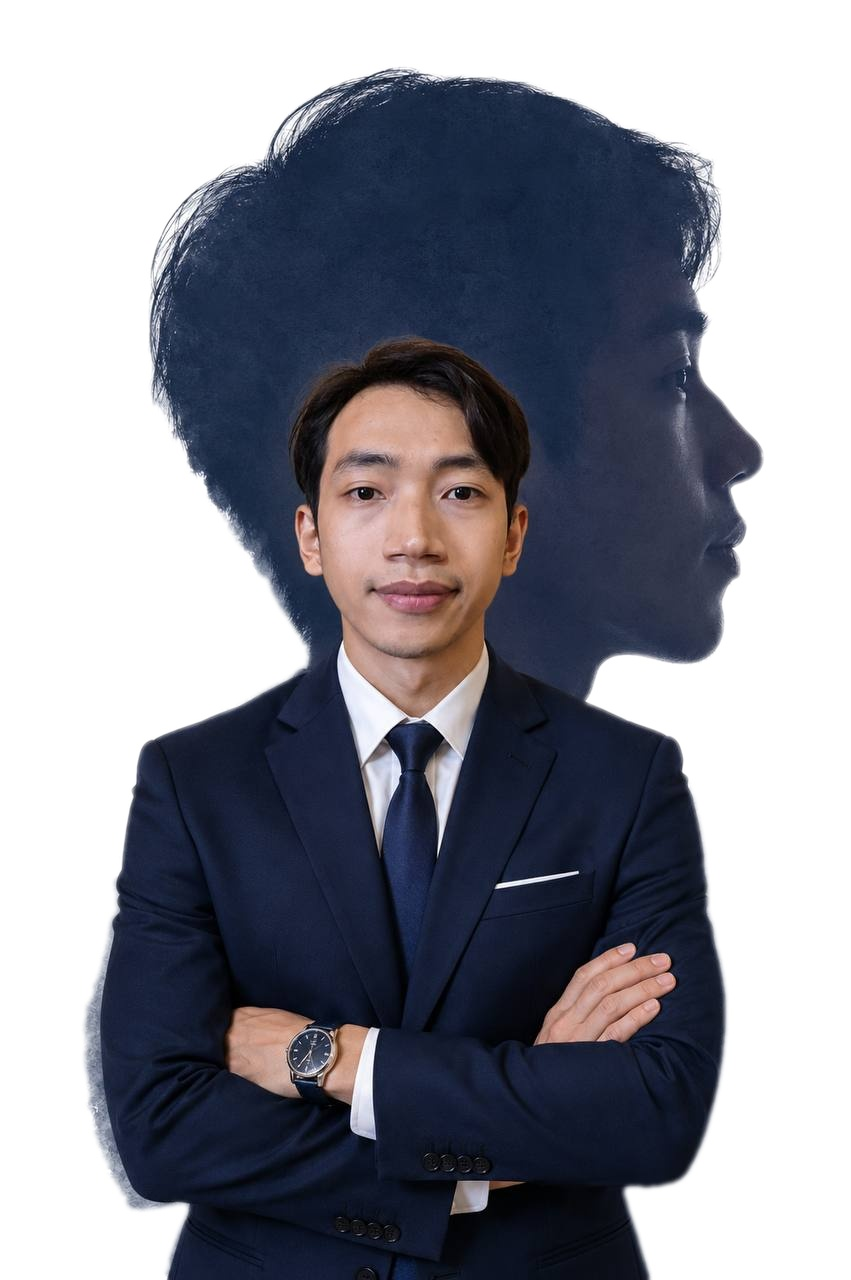
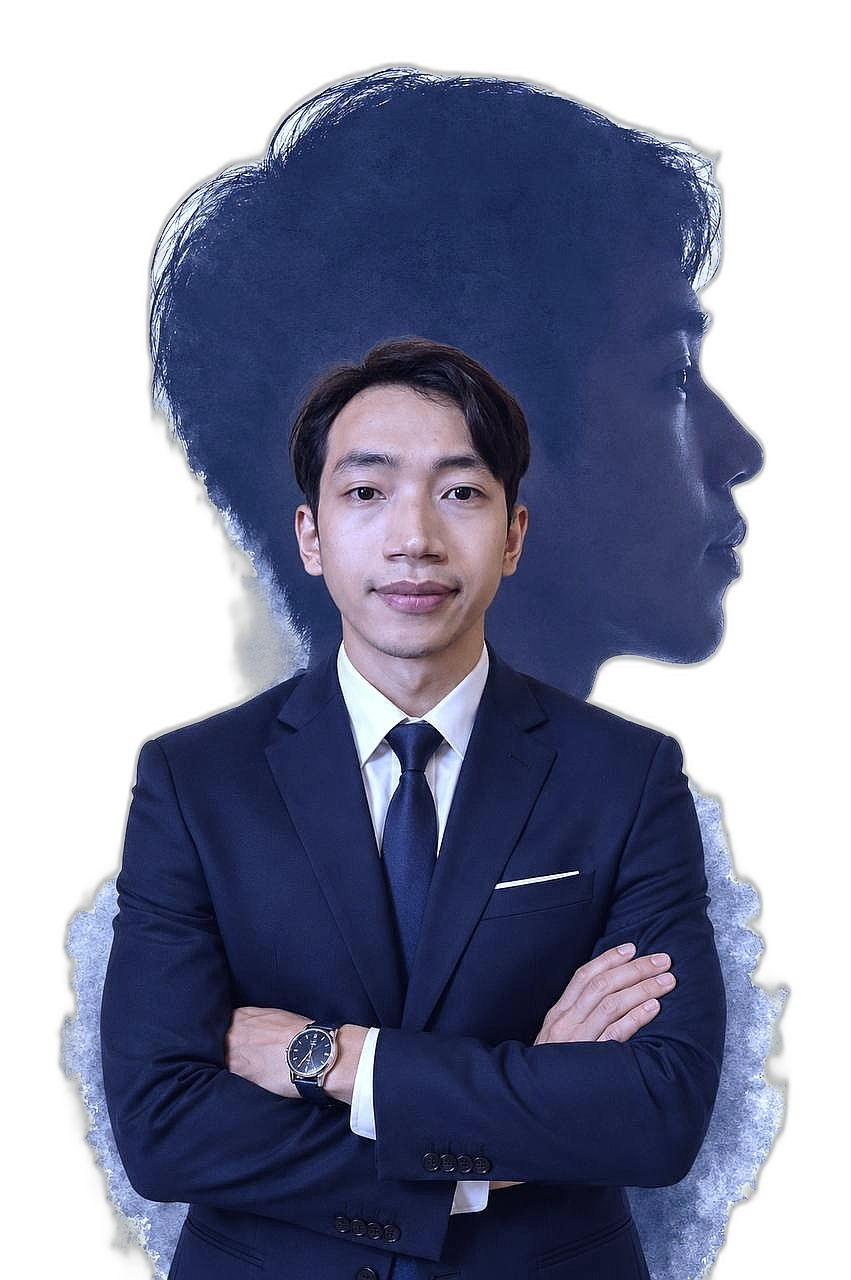
Polish: blue-tinted photo, premium cards, smooth section transitions, better typography

diff --git a/src/app/globals.css b/src/app/globals.css
@@ -42,7 +42,7 @@ body {
   font-family: var(--font-body), 'DM Sans', sans-serif;
   overflow-x: hidden;
   position: relative;
-  line-height: 1.6;
+  line-height: 1.7;
 }
 
 /* ============================================
@@ -56,27 +56,32 @@ body::before {
   height: 100%;
   background-image: url("https://grainy-gradients.vercel.app/noise.svg");
   filter: contrast(150%) brightness(1000%);
-  opacity: 0.015;
+  opacity: 0.02;
   pointer-events: none;
   z-index: 9999;
 }
 
 /* ============================================
-   GLASSMORPHISM CARDS — Clean & Soft
+   GLASSMORPHISM CARDS — Premium Depth
    ============================================ */
 .glass-card {
   background: var(--card-bg);
-  backdrop-filter: blur(16px);
-  -webkit-backdrop-filter: blur(16px);
+  backdrop-filter: blur(20px);
+  -webkit-backdrop-filter: blur(20px);
   border: 1px solid var(--card-border);
-  transition: all 0.35s cubic-bezier(0.4, 0, 0.2, 1);
-  box-shadow: 0 1px 3px rgba(0, 0, 0, 0.04);
+  transition: all 0.4s cubic-bezier(0.4, 0, 0.2, 1);
+  box-shadow: 
+    0 1px 2px rgba(0, 0, 0, 0.04),
+    0 4px 8px rgba(0, 0, 0, 0.02);
 }
 
 .glass-card:hover {
-  border-color: rgba(126, 200, 227, 0.4);
-  box-shadow: 0 8px 32px rgba(126, 200, 227, 0.12);
-  transform: translateY(-2px);
+  border-color: rgba(126, 200, 227, 0.5);
+  box-shadow: 
+    0 4px 16px rgba(126, 200, 227, 0.15),
+    0 12px 40px rgba(126, 200, 227, 0.08),
+    0 0 0 1px rgba(126, 200, 227, 0.1);
+  transform: translateY(-4px);
 }
 
 .glass-card:active {
@@ -87,7 +92,7 @@ body::before {
    GRADIENT TEXT — Soft blue
    ============================================ */
 .gradient-text {
-  background: linear-gradient(135deg, #7EC8E3, #A8C5E2);
+  background: linear-gradient(135deg, #5B9BD5, #7EC8E3, #A8C5E2);
   -webkit-background-clip: text;
   -webkit-text-fill-color: transparent;
   background-clip: text;
@@ -97,7 +102,7 @@ body::before {
    HERO NAME — Clean gradient
    ============================================ */
 .hero-name {
-  background: linear-gradient(135deg, #1E2A3A 0%, #3D5A80 40%, #7EC8E3 70%, #1E2A3A 100%);
+  background: linear-gradient(135deg, #1E2A3A 0%, #3D5A80 30%, #5B9BD5 60%, #7EC8E3 80%, #1E2A3A 100%);
   background-size: 200% 100%;
   -webkit-background-clip: text;
   -webkit-text-fill-color: transparent;
@@ -108,19 +113,20 @@ body::before {
    BUTTON STYLES — Clean & Modern
    ============================================ */
 .btn-primary {
-  background: linear-gradient(135deg, #7EC8E3, #A8C5E2);
+  background: linear-gradient(135deg, #5B9BD5, #7EC8E3);
   color: #1E2A3A;
   font-weight: 600;
   transition: all 0.3s ease;
   position: relative;
   overflow: hidden;
+  box-shadow: 0 2px 8px rgba(126, 200, 227, 0.25);
 }
 
 .btn-primary::before {
   content: '';
   position: absolute;
   inset: 0;
-  background: linear-gradient(135deg, #A8C5E2, #7EC8E3);
+  background: linear-gradient(135deg, #7EC8E3, #A8C5E2);
   opacity: 0;
   transition: opacity 0.3s ease;
 }
@@ -130,7 +136,7 @@ body::before {
 }
 
 .btn-primary:hover {
-  box-shadow: 0 4px 20px rgba(126, 200, 227, 0.35);
+  box-shadow: 0 6px 24px rgba(126, 200, 227, 0.4);
   transform: translateY(-2px);
 }
 
@@ -141,27 +147,33 @@ body::before {
 }
 
 .btn-outline {
-  border: 1px solid rgba(126, 200, 227, 0.35);
+  border: 1px solid rgba(126, 200, 227, 0.4);
   color: var(--foreground);
   transition: all 0.3s ease;
   backdrop-filter: blur(8px);
-  background: rgba(255, 255, 255, 0.5);
+  background: rgba(255, 255, 255, 0.6);
 }
 
 .btn-outline:hover {
-  background: rgba(126, 200, 227, 0.12);
-  border-color: rgba(126, 200, 227, 0.5);
-  box-shadow: 0 4px 16px rgba(126, 200, 227, 0.15);
+  background: rgba(126, 200, 227, 0.15);
+  border-color: rgba(126, 200, 227, 0.6);
+  box-shadow: 0 4px 20px rgba(126, 200, 227, 0.2);
   transform: translateY(-2px);
 }
 
 /* ============================================
-   SECTION DIVIDER
+   SECTION DIVIDER — Smooth gradient
    ============================================ */
 .section-divider {
-  height: 1px;
-  background: linear-gradient(90deg, transparent, var(--card-border), var(--primary), var(--card-border), transparent);
-  opacity: 0.5;
+  height: 2px;
+  background: linear-gradient(
+    90deg, 
+    transparent, 
+    rgba(126, 200, 227, 0.15) 20%,
+    rgba(126, 200, 227, 0.3) 50%,
+    rgba(126, 200, 227, 0.15) 80%,
+    transparent
+  );
 }
 
 /* ============================================
@@ -169,8 +181,8 @@ body::before {
    ============================================ */
 .section-hidden {
   opacity: 0;
-  transform: translateY(30px);
-  transition: opacity 0.7s cubic-bezier(0.4, 0, 0.2, 1), transform 0.7s cubic-bezier(0.4, 0, 0.2, 1);
+  transform: translateY(40px);
+  transition: opacity 0.8s cubic-bezier(0.4, 0, 0.2, 1), transform 0.8s cubic-bezier(0.4, 0, 0.2, 1);
 }
 
 .section-hidden.section-revealed {
@@ -180,8 +192,8 @@ body::before {
 
 .reveal-item {
   opacity: 0;
-  transform: translateY(20px);
-  transition: opacity 0.6s ease, transform 0.6s ease;
+  transform: translateY(24px);
+  transition: opacity 0.7s ease, transform 0.7s ease;
 }
 
 .reveal-item.revealed {
@@ -220,31 +232,37 @@ section {
 }
 
 /* ============================================
-   SKILL BADGE
+   SKILL BADGE — Premium depth
    ============================================ */
 .skill-card {
-  transition: all 0.3s ease;
+  transition: all 0.35s cubic-bezier(0.4, 0, 0.2, 1);
+  box-shadow: 0 2px 8px rgba(0, 0, 0, 0.08);
 }
 
 .skill-card:hover {
-  transform: translateY(-4px);
-  box-shadow: 0 8px 24px rgba(126, 200, 227, 0.15);
+  transform: translateY(-6px);
+  box-shadow: 
+    0 8px 24px rgba(126, 200, 227, 0.2),
+    0 0 0 1px rgba(126, 200, 227, 0.15);
 }
 
 /* ============================================
-   PROJECT CARD BRAND ACCENTS
+   PROJECT CARD BRAND ACCENTS — Premium
    ============================================ */
 .project-card {
-  transition: all 0.35s cubic-bezier(0.4, 0, 0.2, 1);
+  transition: all 0.4s cubic-bezier(0.4, 0, 0.2, 1);
+  box-shadow: 0 2px 8px rgba(0, 0, 0, 0.06);
 }
 
 .project-card:hover {
-  transform: translateY(-4px);
-  box-shadow: 0 12px 40px rgba(0, 0, 0, 0.08);
+  transform: translateY(-6px);
+  box-shadow: 
+    0 12px 48px rgba(0, 0, 0, 0.12),
+    0 0 0 1px rgba(126, 200, 227, 0.1);
 }
 
 /* ============================================
-   PROFILE PHOTO FRAME
+   PROFILE PHOTO FRAME — Premium glow
    ============================================ */
 .profile-photo {
   position: relative;
@@ -255,10 +273,27 @@ section {
 .profile-photo::after {
   content: '';
   position: absolute;
-  inset: -3px;
+  inset: -4px;
   border-radius: 50%;
-  background: linear-gradient(135deg, #7EC8E3, #A8C5E2, #7EC8E3);
+  background: linear-gradient(135deg, #5B9BD5, #7EC8E3, #A8C5E2, #7EC8E3);
   z-index: -1;
+  box-shadow: 0 8px 32px rgba(126, 200, 227, 0.3);
+}
+
+/* ============================================
+   DARK SECTION CARDS
+   ============================================ */
+.dark-card {
+  background: rgba(255, 255, 255, 0.04);
+  border: 1px solid rgba(255, 255, 255, 0.08);
+  backdrop-filter: blur(12px);
+  transition: all 0.35s ease;
+}
+
+.dark-card:hover {
+  background: rgba(255, 255, 255, 0.08);
+  border-color: rgba(126, 200, 227, 0.2);
+  box-shadow: 0 8px 32px rgba(126, 200, 227, 0.1);
 }
 
 /* ============================================
@@ -268,11 +303,12 @@ section {
   .glass-card {
     backdrop-filter: none;
     -webkit-backdrop-filter: none;
-    background: rgba(255, 255, 255, 0.9);
+    background: rgba(255, 255, 255, 0.92);
+    box-shadow: 0 1px 4px rgba(0, 0, 0, 0.06);
   }
   .glass-card:hover {
     transform: none;
-    box-shadow: 0 1px 3px rgba(0, 0, 0, 0.04);
+    box-shadow: 0 1px 4px rgba(0, 0, 0, 0.06);
     border-color: var(--card-border);
   }
   .btn-outline {
@@ -281,5 +317,13 @@ section {
   }
   section {
     will-change: auto;
+  }
+  .skill-card,
+  .project-card {
+    box-shadow: 0 1px 4px rgba(0, 0, 0, 0.06);
+  }
+  .skill-card:hover,
+  .project-card:hover {
+    transform: none;
   }
 }